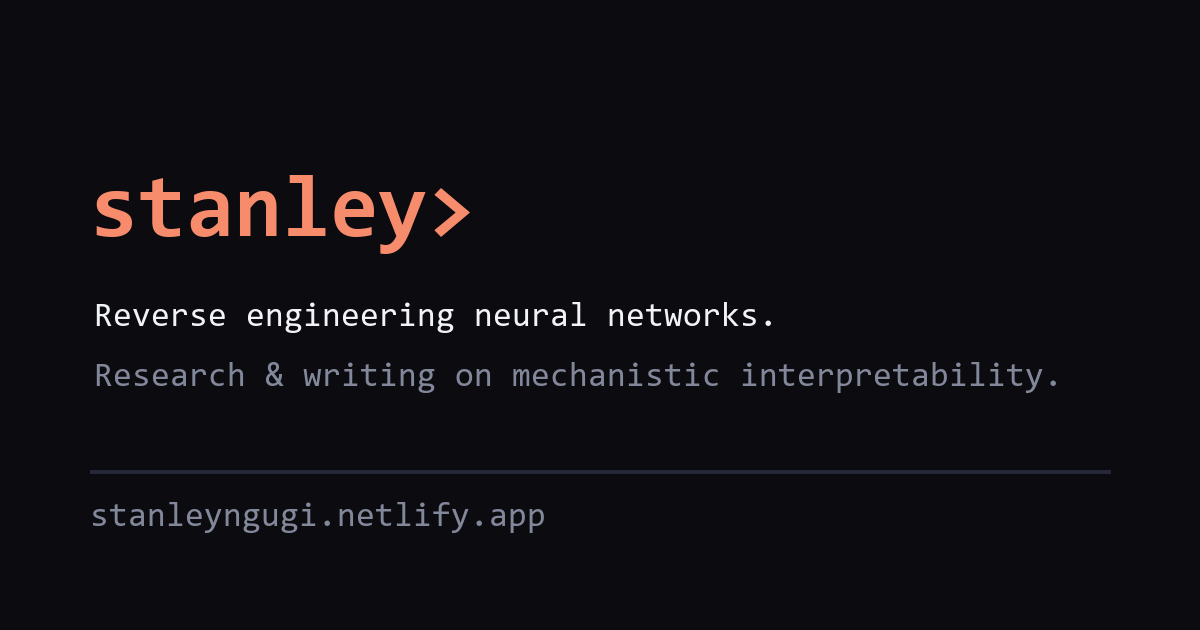
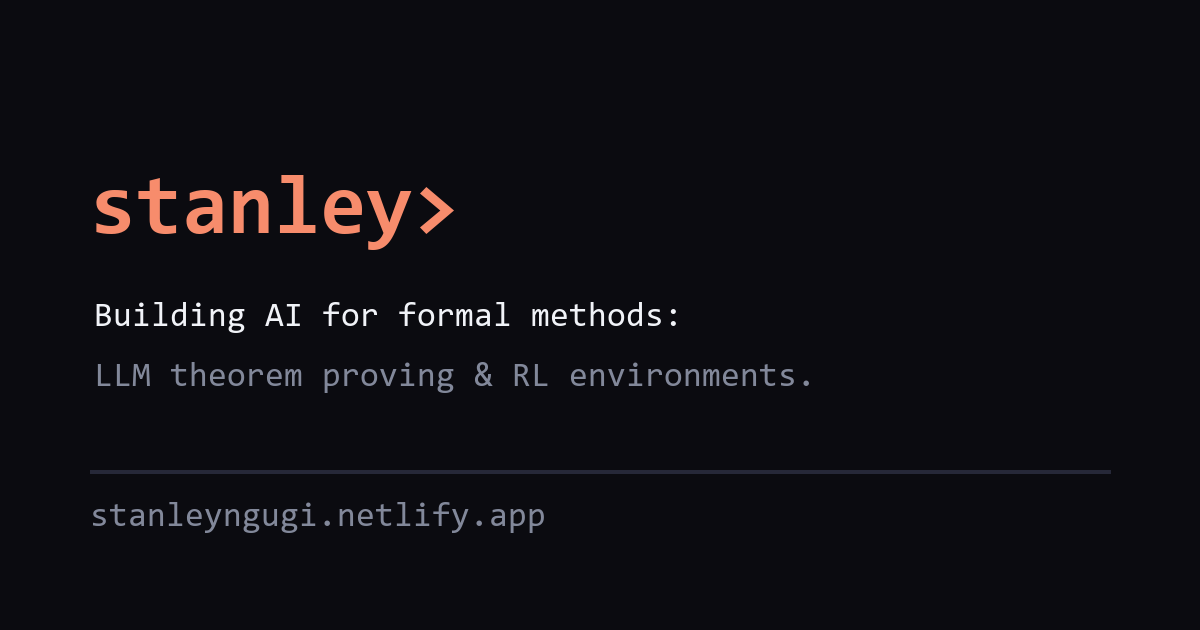
Reposition research identity: AI for formal methods & RL environments
- Home hero: 'I build AI for formal methods' + intro covering theorem proving,
  constrained decoding, kernel-in-the-loop training; interpretability as background
- Now section: RL environments for formal methods
- CV: role line, research interests, experience title updated; interpretability
  kept as foundational work
- OG banner and RSS description regenerated to match

Changed region(s): [[0.0617, 0.573, 0.8633, 0.6333], [0.0617, 0.2714, 0.4008, 0.4222], [0.0617, 0.4825, 0.6475, 0.5429]]

diff --git a/cv.html b/cv.html
@@ -4,7 +4,7 @@
     <meta charset="UTF-8">
     <meta name="viewport" content="width=device-width, initial-scale=1.0">
     <title>CV - Stanley Ngugi</title>
-    <meta name="description" content="Curriculum vitae of Stanley Ngugi, mechanistic interpretability researcher.">
+    <meta name="description" content="Curriculum vitae of Stanley Ngugi, researcher working on AI for formal methods and reinforcement learning environments.">
     <link rel="icon" href="/favicon.svg" type="image/svg+xml">
     <script>
         (function () {
@@ -42,7 +42,7 @@
                 <div class="cv-topbar">
                     <div>
                         <div class="cv-name">Stanley Ngugi</div>
-                        <div class="cv-role">Mechanistic Interpretability Researcher</div>
+                        <div class="cv-role">Researcher — AI for Formal Methods &amp; RL Environments</div>
                     </div>
                     <div class="cv-contact">
                         Nairobi, Kenya<br>
@@ -55,10 +55,11 @@
                 <section class="cv-section">
                     <h2>Research Interests</h2>
                     <p>
-                        Mechanistic interpretability of large language models: knowledge editing and model
-                        editing, polysemanticity and feature entanglement, circuit analysis, cross-lingual
-                        representations in low-resource languages, grammar-constrained decoding for LLM
-                        theorem proving, and metacognition/uncertainty circuits.
+                        AI for formal methods: LLM theorem proving, grammar-constrained decoding,
+                        verifier-in-the-loop reinforcement learning environments, and agentic proof
+                        search. Foundational work in mechanistic interpretability of large language
+                        models: knowledge editing, polysemanticity and feature entanglement, circuit
+                        analysis, cross-lingual representations in low-resource languages.
                     </p>
                 </section>
 
@@ -130,14 +131,14 @@
                     <h2>Research Experience</h2>
                     <div class="cv-item">
                         <div class="cv-item-head">
-                            <span class="cv-item-title">Independent Researcher — interpretability of open-weight LLMs</span>
+                            <span class="cv-item-title">Independent Researcher — AI for formal methods &amp; LLM internals</span>
                             <span class="cv-item-sub">2024 – present</span>
                         </div>
                         <ul>
+                            <li>Built a context-free grammar and corpus extractor for the Lean 4 tactic sublanguage (99.86% coverage of Mathlib; cross-validated on Rocq and Isabelle), then benchmarked grammar-constrained decoding of Qwen2.5-Coder-7B and Goedel-Prover-V2 via vLLM + llguidance.</li>
                             <li>Designed and ran circuit-localization pipelines to identify components encoding specific facts before targeted PEFT interventions (<a href="https://github.com/stanleyngugi/surgical_knowledge_editing">code</a>).</li>
                             <li>Built contrastive-learning LoRA training setups targeting empirically identified optimal layers for cross-lingual alignment (<a href="https://github.com/stanleyngugi/tli_project">code</a>).</li>
                             <li>Trained toy overcomplete networks and sparse autoencoders to quantify polysemanticity under different regularization schemes (<a href="https://github.com/stanleyngugi/taming_polysemanticity">code</a>).</li>
-                            <li>Built a context-free grammar and corpus extractor for the Lean 4 tactic sublanguage (99.86% coverage of Mathlib; cross-validated on Rocq and Isabelle), then benchmarked grammar-constrained decoding of Qwen2.5-Coder-7B and Goedel-Prover-V2 via vLLM + llguidance.</li>
                         </ul>
                     </div>
                     <!-- TODO: add internships, collaborations, mentorships if any

diff --git a/index.html b/index.html
@@ -4,9 +4,9 @@
     <meta charset="UTF-8">
     <meta name="viewport" content="width=device-width, initial-scale=1.0">
     <title>Stanley Ngugi</title>
-    <meta name="description" content="Stanley Ngugi reverse engineers neural networks — mechanistic interpretability research and technical writing from Nairobi, Kenya.">
+    <meta name="description" content="Stanley Ngugi builds AI for formal methods — LLM theorem proving, grammar-constrained decoding, and RL environments. Research and technical writing from Nairobi, Kenya.">
     <meta property="og:title" content="Stanley Ngugi">
-    <meta property="og:description" content="Reverse engineering neural networks. Research & writing on mechanistic interpretability.">
+    <meta property="og:description" content="Building AI for formal methods: LLM theorem proving, grammar-constrained decoding, RL environments.">
     <meta property="og:type" content="website">
     <meta property="og:url" content="https://stanleyngugi.netlify.app/">
     <meta property="og:image" content="https://stanleyngugi.netlify.app/og-image.png">
@@ -44,11 +44,12 @@
 
         <main>
             <div class="intro">
-                <h1>I reverse engineer neural networks.</h1>
+                <h1>I build AI for formal methods.</h1>
                 <p>
-                    Mechanistic interpretability researcher in Nairobi, Kenya. I study how language
-                    models represent knowledge internally — circuits, features, polysemanticity,
-                    precise knowledge editing — and write about it here.
+                    Researcher in Nairobi, Kenya working at the intersection of LLMs and theorem
+                    proving: grammar-constrained decoding, kernel-in-the-loop training, and RL
+                    environments where every generated proof step reaches the judge. Background in
+                    mechanistic interpretability — I like knowing what the model is doing on the inside.
                 </p>
                 <div class="links-row">
                     <a href="/cv.html" class="pill-primary">CV</a>
@@ -123,9 +124,10 @@
 
             <section class="block">
                 <h2 class="block-title">Now</h2>
-                <p style="font-size: 13px;">
-                    Investigating metacognition circuits in LLMs — whether and where models encode
-                    knowledge about their own uncertainty.
+                <p style="font-size: 14px;">
+                    Building RL environments for formal methods — closed training loops where a
+                    grammar-constrained generator talks to a real Lean kernel and every contact
+                    becomes step-level learning signal.
                 </p>
             </section>
         </main>
